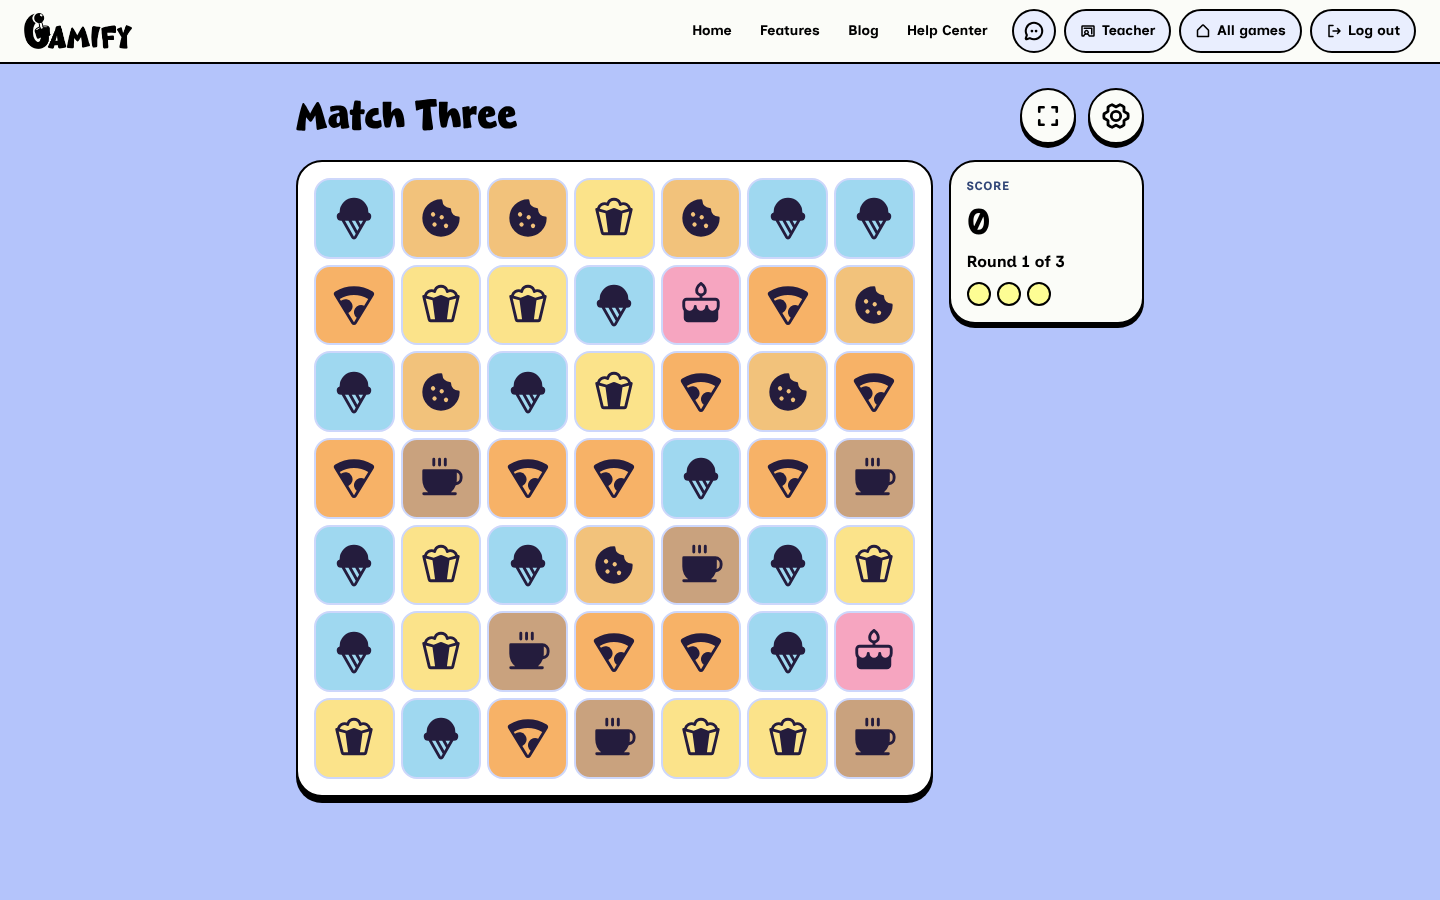
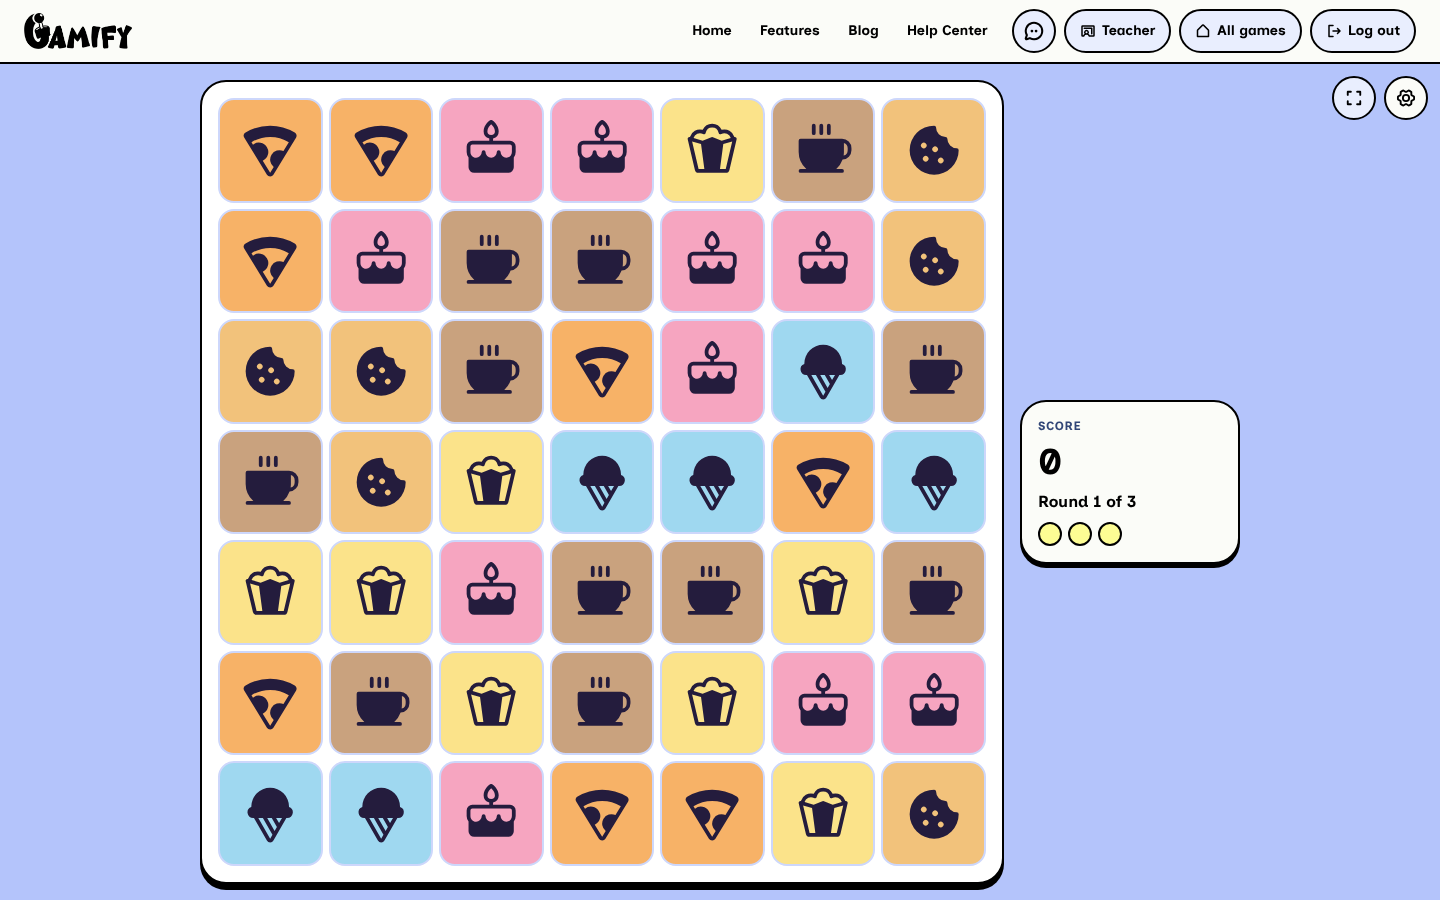
Bubble Pop and Match Three boards fill the play space like the reference games, the same in full screen, with small controls on top
Claude-Session: https://claude.ai/code/session_01APER8wtnDZSnzGLifX9o6w

diff --git a/src/games/bubble-pop/BubblePop.tsx b/src/games/bubble-pop/BubblePop.tsx
@@ -10,7 +10,7 @@ import ResultsModal from '../../engine/ResultsModal';
 import { usePlayClock } from '../../engine/playClock';
 import { useAsk } from '../../engine/useAsk';
 import { t } from '../../i18n';
-import { GameTopRow, SettingsPanel } from '../../settings/SettingsPanel';
+import { FullScreenButton, GameTopRow, GearButton, SettingsPanel } from '../../settings/SettingsPanel';
 import { useSettings } from '../../settings/SettingsContext';
 import { useGamePool } from '../../student/session';
 import { PUZZLE_PACK_CLEARED } from '../../config';
@@ -18,7 +18,6 @@ import { pieceFill, pieceImage } from '../../theme/library';
 import { ThemedPage, useGameTheme } from '../../theme/useGameTheme';
 import { Slider, Toggle } from '../../ui/fields';
 import { buttonClasses } from '../../ui/kit';
-import Title from '../../ui/Title';
 import GameWelcome from '../GameWelcome';
 import SetPicker from '../SetPicker';
 import SetupWizard from '../SetupWizard';
@@ -228,12 +227,10 @@ export default function BubblePop() {
 
   return (
     <ThemedPage theme={theme} menu={phase !== 'play' && phase !== 'end'}>
-    <main className="landscape:[--wide-save:2.875rem] max-w-5xl mx-auto px-4 sm:px-6 pt-6 pb-4">
+    <main className={phase === 'play' || phase === 'end' ? '!p-0' : 'max-w-5xl mx-auto px-4 sm:px-6 pt-6 pb-4'}>
       <SettingsPanel open={settingsOpen} onClose={() => setSettingsOpen(false)} context="bubble-pop" />
       {clock.element}
-      <GameTopRow onSettings={() => setSettingsOpen(true)}>
-        {(phase === 'play' || phase === 'end') && <h1 className="title-bubble text-3xl sm:text-4xl hidden lg:block"><Title text={bubblePopManifest.name} /></h1>}
-      </GameTopRow>
+      {phase === 'play' || phase === 'end' ? <h1 className="sr-only">{bubblePopManifest.name}</h1> : <GameTopRow onSettings={() => setSettingsOpen(true)} />}
 
       {phase === 'welcome' && (
         <GameWelcome game={bubblePopManifest} cover={pieceImage(theme, 'cover')} onStart={() => setPhase(themes.length > 1 ? 'theme' : 'setup')} steps={[
@@ -258,12 +255,19 @@ export default function BubblePop() {
       )}
 
       {(phase === 'play' || phase === 'end') && (
-        <div className="grid gap-3 lg:flex lg:justify-center lg:items-start lg:gap-4">
+        // The board fills the play space like the reference games, the same in
+        // full screen; small controls sit on top (teacher, 2026-10-31).
+        <div className="relative play-fill grid content-center gap-3 px-3 py-3 lg:flex lg:justify-center lg:items-center lg:gap-4">
+          <div className="absolute top-3 right-3 flex items-center gap-2 z-10 [&_button]:!w-11 [&_button]:!h-11">
+            <FullScreenButton small />
+            <GearButton small onClick={() => setSettingsOpen(true)} />
+          </div>
+
           {/* The board is the star: as big as the screen allows, with the score
               panel right beside it, not across the page (teacher, 2026-10-31). */}
           <section className="grid gap-2 min-w-0">
             <div className="relative mx-auto rounded-panel border-[3px] border-border overflow-hidden select-none touch-none [--bp-extra:4.375rem] lg:[--bp-extra:0rem]"
-              style={{ ...pieceFill(theme, 'board', '#314677'), aspectRatio: `${W} / ${H}`, width: `calc((100dvh - 18.125rem + var(--chrome-save, 0rem) + var(--wide-save, 0rem) - var(--bp-extra)) * ${W / H})`, maxWidth: '100%', boxShadow: 'var(--shadow-sticker-lg)' }}>
+              style={{ ...pieceFill(theme, 'board', '#314677'), aspectRatio: `${W} / ${H}`, width: `calc((var(--play-h) - 6.5rem - var(--bp-extra)) * ${W / H})`, maxWidth: '100%', boxShadow: 'var(--shadow-sticker-lg)' }}>
               <svg ref={svg} viewBox={`0 0 ${W} ${H}`} className="absolute inset-0 w-full h-full" role="img" aria-label={t('bp.boardLabel')}
                 style={{ cursor: canAim ? 'crosshair' : 'default' }}
                 onPointerMove={(e) => { if (canAim && (e.pointerType === 'mouse' || pressed.current)) setAngle(toAngle(e)); }}

diff --git a/src/games/match-three/MatchThree.tsx b/src/games/match-three/MatchThree.tsx
@@ -12,7 +12,7 @@ import { usePlayClock } from '../../engine/playClock';
 import { useAsk } from '../../engine/useAsk';
 import { t } from '../../i18n';
 import type { StringKey } from '../../i18n/en';
-import { GameTopRow, SettingsPanel } from '../../settings/SettingsPanel';
+import { FullScreenButton, GameTopRow, GearButton, SettingsPanel } from '../../settings/SettingsPanel';
 import { useSettings } from '../../settings/SettingsContext';
 import { ChoiceRow, Slider, Toggle } from '../../ui/fields';
 import GameWelcome from '../GameWelcome';
@@ -27,7 +27,6 @@ import { ThemedPage, useGameTheme } from '../../theme/useGameTheme';
 import ThemeScreen from '../ThemeScreen';
 
 import { clearAndRefill, createGrid, findMatches, hasAnyValidMove, isAdjacent, pointsFor, swapTiles, wouldMatch, type Grid, type Pos } from './matchThree';
-import Title from '../../ui/Title';
 
 
 // Simple house look: each gem has its own shape AND color (never color
@@ -165,12 +164,10 @@ export default function MatchThree() {
 
   return (
     <ThemedPage theme={theme} menu={phase !== 'play' && phase !== 'end'}>
-    <main className="max-w-4xl mx-auto px-4 sm:px-6 pt-6 pb-6">
+    <main className={phase === 'play' || phase === 'end' ? '!p-0' : 'max-w-4xl mx-auto px-4 sm:px-6 pt-6 pb-6'}>
       <SettingsPanel open={settingsOpen} onClose={() => setSettingsOpen(false)} context="match-three" />
       {clock.element}
-      <GameTopRow onSettings={() => setSettingsOpen(true)}>
-        {(phase === 'play' || phase === 'end') && <h1 className="title-bubble text-3xl sm:text-4xl"><Title text={t('bm.title')} /></h1>}
-      </GameTopRow>
+      {phase === 'play' || phase === 'end' ? <h1 className="sr-only">{t('bm.title')}</h1> : <GameTopRow onSettings={() => setSettingsOpen(true)} />}
 
       {phase === 'welcome' && (
         <GameWelcome game={matchThreeManifest} cover={pieceImage(theme, 'cover')} onStart={() => setPhase(themes.length > 1 ? 'theme' : 'setup')} steps={[
@@ -201,9 +198,15 @@ export default function MatchThree() {
       )}
 
       {(phase === 'play' || phase === 'end') && (
-        <div className="grid gap-4 md:flex md:justify-center md:items-start">
+        // The board fills the play space like the reference games (teacher, 2026-10-31).
+        <div className="relative play-fill grid content-center gap-4 px-3 py-3 md:flex md:justify-center md:items-center">
+          <div className="absolute top-3 right-3 flex items-center gap-2 z-10 [&_button]:!w-11 [&_button]:!h-11">
+            <FullScreenButton small />
+            <GearButton small onClick={() => setSettingsOpen(true)} />
+          </div>
+
           {/* The board is the star, the score panel right beside it (teacher, 2026-10-31). */}
-          <div className="border-[2.5px] border-border rounded-panel p-3 sm:p-4 mx-auto md:mx-0 w-full md:w-[min(calc(100dvh-11.75rem+var(--chrome-save,0rem)),calc(100vw-20rem),52rem)]" style={{ ...pieceFill(theme, 'board', '#ffffff'), boxShadow: 'var(--shadow-sticker-lg)', maxWidth: 'min(100%, calc(100dvh - 11.75rem + var(--chrome-save, 0rem)), 52rem)' }}>
+          <div className="border-[2.5px] border-border rounded-panel p-3 sm:p-4 mx-auto md:mx-0 w-full md:w-[min(calc(var(--play-h)-2rem),calc(100vw-19rem),64rem)]" style={{ ...pieceFill(theme, 'board', '#ffffff'), boxShadow: 'var(--shadow-sticker-lg)', maxWidth: 'min(100%, calc(var(--play-h) - 2rem), 64rem)' }}>
             <div role="grid" aria-label={t('bm.title')} className="grid gap-1.5 select-none touch-none" style={{ gridTemplateColumns: `repeat(${COLS}, minmax(0, 1fr))` }}>
               {grid.map((row, r) => <div key={r} role="row" className="contents">{row.map((tileItem, c) => {
                 const key = `${r},${c}`;

diff --git a/src/index.css b/src/index.css
@@ -358,5 +358,7 @@ html[data-motion="still"] :is(.fw-bob, .fw-hop, .fw-twinkle, .fw-flash, .fw-nudg
 
 /* A game that fills the whole space under the menu bar, and the whole
    screen in full screen: the same view either way (teacher, 2026-10-31). */
-.play-fill { height: calc(100dvh - 4rem); }
+:root { --play-h: calc(100dvh - 4rem); }
+html:fullscreen { --play-h: 100dvh; }
+.play-fill { height: var(--play-h); }
 html:fullscreen .play-fill { height: 100dvh; }
